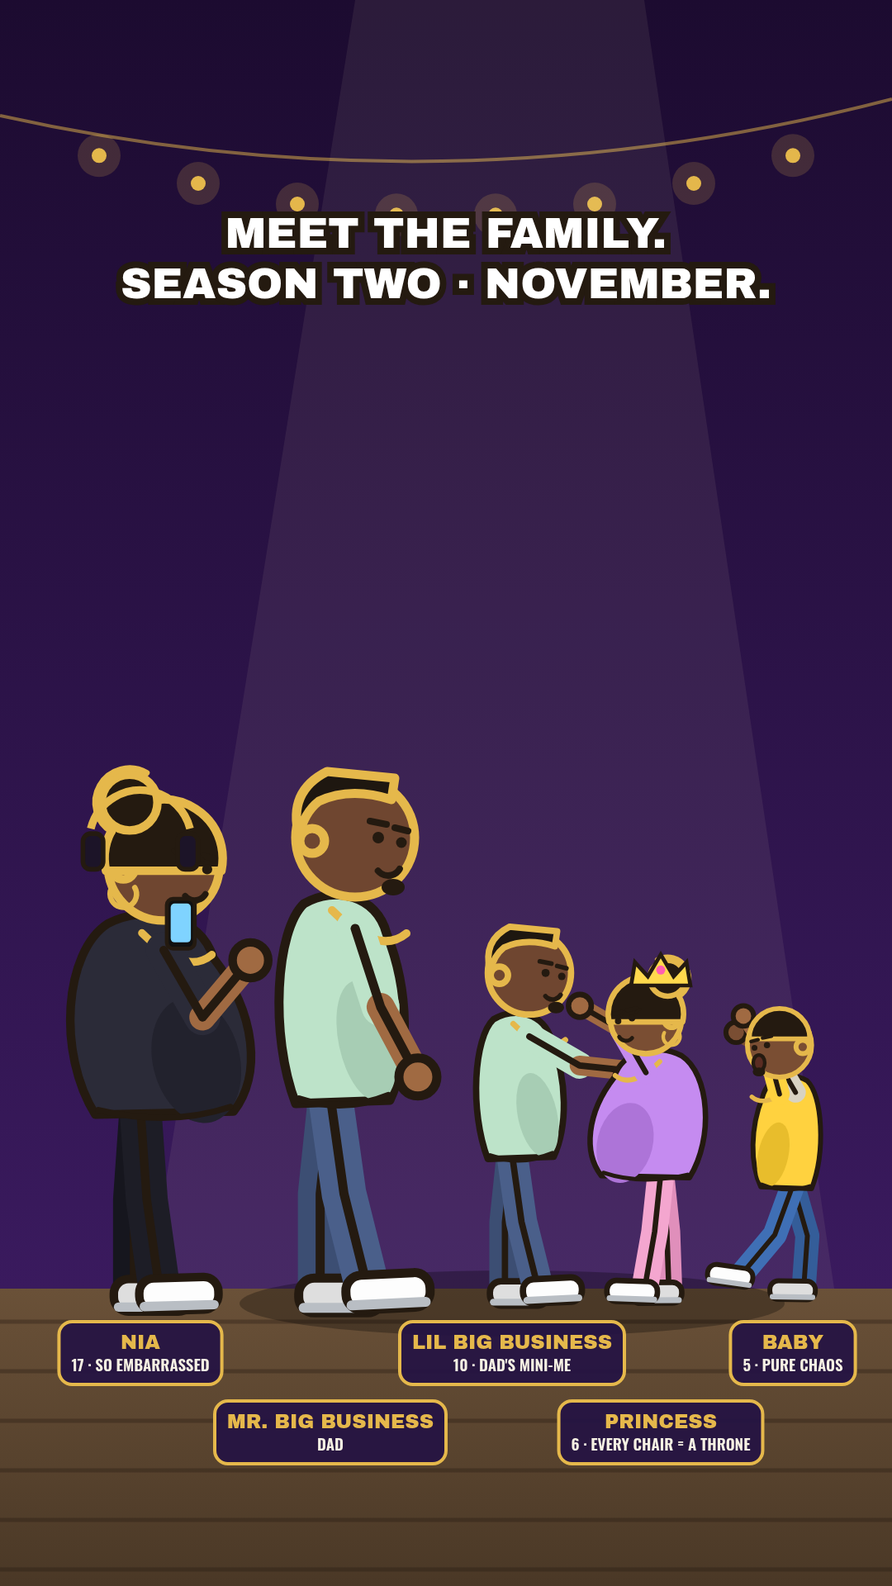
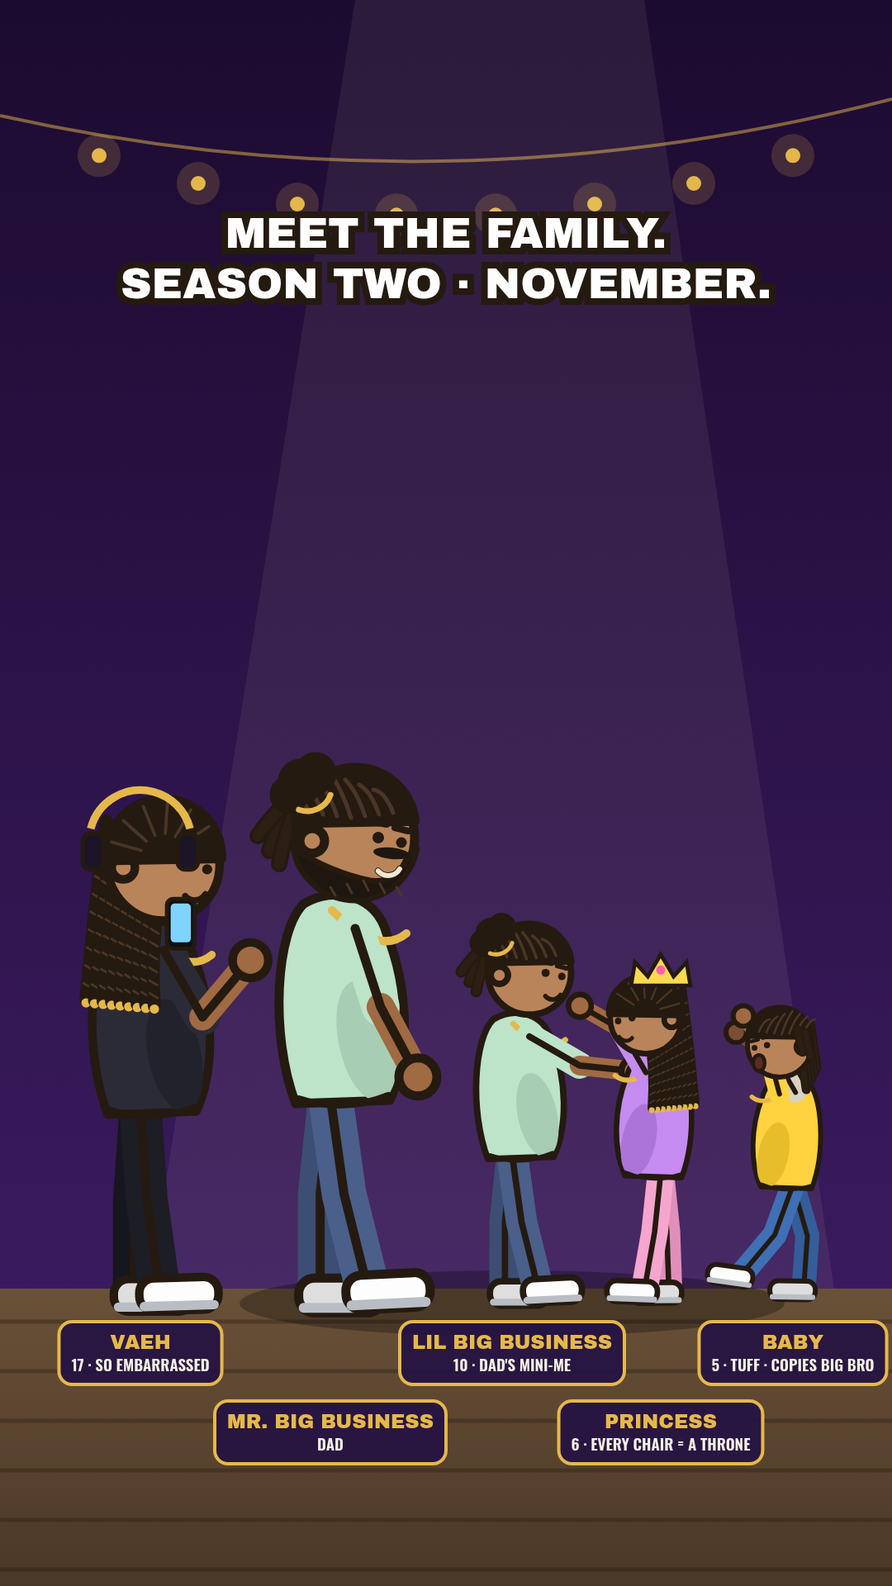
Season Two looks: Vaeh, light brown family, MBB locs bun + beard, Lil like Dad, braids for Princess and Vaeh, Baby the tuff one
Claude-Session: https://claude.ai/code/session_017gFjVqkwgLPg6xPremjBSu

diff --git a/big-business-rentals/reelsD.html b/big-business-rentals/reelsD.html
@@ -162,11 +162,64 @@ function drawMan(p){
   ctx.save();
   ctx.translate(30,-252); ctx.rotate(rad(p.headTilt||0));
   ctx.lineWidth=11;
+  // SEASON TWO hair that hangs BEHIND the head (drawn before the face)
+  if(S.hair==='braids'){
+    ctx.lineCap='round';
+    for(let i=0;i<9;i++){
+      const ax=-74+i*9, ay=-112+i*9, L=230-i*8, ex=ax-26+i*2, ey=ay+L;
+      ctx.strokeStyle=INK; ctx.lineWidth=17; ctx.beginPath(); ctx.moveTo(ax,ay); ctx.quadraticCurveTo(ax-16,(ay+ey)/2,ex,ey); ctx.stroke();
+      ctx.strokeStyle='#241a10'; ctx.lineWidth=11; ctx.beginPath(); ctx.moveTo(ax,ay); ctx.quadraticCurveTo(ax-16,(ay+ey)/2,ex,ey); ctx.stroke();
+      ctx.strokeStyle='#4a3626'; ctx.lineWidth=3;
+      for(let k=0.12;k<0.95;k+=0.1){ const bx=(1-k)*(1-k)*ax+2*(1-k)*k*(ax-16)+k*k*ex, by=(1-k)*(1-k)*ay+2*(1-k)*k*((ay+ey)/2)+k*k*ey;
+        ctx.beginPath(); ctx.moveTo(bx-5,by-3); ctx.lineTo(bx+5,by+3); ctx.stroke(); }
+      ctx.fillStyle=GOLD; ctx.beginPath(); ctx.arc(ex,ey+4,6,0,7); ctx.fill();
+    }
+    ctx.strokeStyle=INK; ctx.lineWidth=11;
+  } else if(S.hair==='locbun'){
+    ctx.lineCap='round';
+    [[-70,-112,-104,-40],[-60,-118,-92,-24],[-78,-104,-118,-58]].forEach(([x0,y0,x1,y1])=>{
+      ctx.strokeStyle=INK; ctx.lineWidth=20; ctx.beginPath(); ctx.moveTo(x0,y0); ctx.quadraticCurveTo(x0-24,(y0+y1)/2,x1,y1); ctx.stroke();
+      ctx.strokeStyle='#2b1f14'; ctx.lineWidth=13; ctx.beginPath(); ctx.moveTo(x0,y0); ctx.quadraticCurveTo(x0-24,(y0+y1)/2,x1,y1); ctx.stroke();
+    });
+    ctx.strokeStyle=INK; ctx.lineWidth=11;
+  } else if(S.hair==='locs'){
+    ctx.lineCap='round';
+    for(let i=0;i<5;i++){ const ax=-70+i*6, ay=-100+i*12, ex=ax-14, ey=ay+96;
+      ctx.strokeStyle=INK; ctx.lineWidth=20; ctx.beginPath(); ctx.moveTo(ax,ay); ctx.lineTo(ex,ey); ctx.stroke();
+      ctx.strokeStyle='#2b1f14'; ctx.lineWidth=13; ctx.beginPath(); ctx.moveTo(ax,ay); ctx.lineTo(ex,ey); ctx.stroke(); }
+    ctx.strokeStyle=INK; ctx.lineWidth=11;
+  }
   ctx.fillStyle=S.skin;
   ctx.beginPath(); ctx.arc(0,-56,72,0,7); ctx.fill(); ctx.stroke();
   ctx.beginPath(); ctx.arc(-52,-52,15,0,7); ctx.fill(); ctx.stroke(); // ear
   // backwards cap: dome on top + strap at back
-  if(S.fem){
+  if(S.hair==='braids'){
+    // long individual braids: the cap of parted hair (the braids themselves hang behind, drawn earlier)
+    ctx.fillStyle='#241a10';
+    ctx.beginPath(); ctx.arc(0,-66,75,rad(176),rad(362)); ctx.closePath(); ctx.fill(); ctx.stroke();
+    ctx.strokeStyle='#4a3626'; ctx.lineWidth=4;
+    for(let i=0;i<6;i++){ const a=rad(196+i*26); ctx.beginPath(); ctx.moveTo(Math.cos(a)*30,-66+Math.sin(a)*30); ctx.lineTo(Math.cos(a)*70,-66+Math.sin(a)*70); ctx.stroke(); }
+    ctx.strokeStyle=INK; ctx.lineWidth=11;
+  } else if(S.hair==='locbun'||S.hair==='locs'){
+    // locs: dark cap with rope texture; locbun adds the coiled bun at the back
+    ctx.fillStyle='#241a10';
+    ctx.beginPath(); ctx.arc(0,-68,73,rad(184),rad(354)); ctx.closePath(); ctx.fill(); ctx.stroke();
+    ctx.strokeStyle='#4a3626'; ctx.lineWidth=5;
+    for(let i=0;i<7;i++){ const x=-56+i*17; ctx.beginPath(); ctx.moveTo(x,-80-Math.abs(i-3)*2); ctx.quadraticCurveTo(x-10,-112,x-24,-132+Math.abs(i-3)*6); ctx.stroke(); }
+    ctx.strokeStyle=INK; ctx.lineWidth=11;
+    if(S.hair==='locbun'){
+      ctx.fillStyle='#241a10';
+      [[-66,-124,22],[-48,-134,20],[-80,-108,18]].forEach(([x,y,r])=>{ ctx.beginPath(); ctx.arc(x,y,r,0,7); ctx.fill(); ctx.stroke(); });
+      ctx.strokeStyle=GOLD; ctx.lineWidth=7; ctx.beginPath(); ctx.arc(-58,-118,30,rad(20),rad(110)); ctx.stroke();   // hair tie glint
+      ctx.strokeStyle=INK; ctx.lineWidth=11;
+    } else {
+      ctx.lineCap='round';
+      [[-40,-90,-52,-40],[-58,-84,-70,-30]].forEach(([x0,y0,x1,y1])=>{   // side locs in front of the ear
+        ctx.strokeStyle=INK; ctx.lineWidth=20; ctx.beginPath(); ctx.moveTo(x0,y0); ctx.lineTo(x1,y1); ctx.stroke();
+        ctx.strokeStyle='#2b1f14'; ctx.lineWidth=13; ctx.beginPath(); ctx.moveTo(x0,y0); ctx.lineTo(x1,y1); ctx.stroke(); });
+      ctx.strokeStyle=INK; ctx.lineWidth=11;
+    }
+  } else if(S.fem){
     ctx.fillStyle='#241a10';
     ctx.beginPath(); ctx.arc(0,-64,76,rad(168),rad(372)); ctx.closePath(); ctx.fill(); ctx.stroke();
     ctx.beginPath(); ctx.arc(-44,-136,36,0,7); ctx.fill(); ctx.stroke();   // bun
@@ -183,6 +236,14 @@ function drawMan(p){
   ctx.beginPath(); ctx.moveTo(-70,-84); ctx.quadraticCurveTo(-128,-76,-124,-56);
   ctx.quadraticCurveTo(-90,-56,-66,-62); ctx.closePath(); ctx.fill(); ctx.stroke();  // back brim
   ctx.fillStyle=GOLD; ctx.beginPath(); ctx.arc(6,-96,10,0,7); ctx.fill();  // cap button
+  } else if(S.manbun){
+    // SEASON TWO: hair pulled back into a ponytail bun (Mr. Big Business + Lil Big Business)
+    ctx.fillStyle='#1e1710';
+    ctx.beginPath(); ctx.arc(0,-68,72,rad(186),rad(352)); ctx.closePath(); ctx.fill(); ctx.stroke();
+    ctx.beginPath(); ctx.ellipse(-62,-120,30,26,rad(-20),0,7); ctx.fill(); ctx.stroke();   // the bun
+    ctx.strokeStyle='#3a2a1a'; ctx.lineWidth=8;
+    ctx.beginPath(); ctx.moveTo(-44,-104); ctx.lineTo(-36,-96); ctx.stroke();               // hair tie
+    ctx.strokeStyle=INK; ctx.lineWidth=11;
   } else if(S.fade){
     ctx.fillStyle='#1e1710';
     ctx.beginPath();
@@ -224,7 +285,20 @@ function drawMan(p){
   else if(p.mouth==='sad'){ctx.beginPath();ctx.arc(44,0,15,rad(200),rad(340));ctx.stroke();}
   else {ctx.beginPath();ctx.arc(40,-26,16,rad(30),rad(140));ctx.stroke();}
   // goatee (men) / lashes (women)
-  if(!S.fem && S.goatee!==false){
+  if(S.beard){
+    // SEASON TWO: full beard + mustache (Mr. Big Business only)
+    ctx.fillStyle='#1e1710'; ctx.lineWidth=7;
+    ctx.beginPath(); ctx.arc(0,-56,76,rad(10),rad(170));
+    ctx.quadraticCurveTo(-30,-14,18,-4); ctx.quadraticCurveTo(50,0,62,-30); ctx.closePath(); ctx.fill(); ctx.stroke();
+    ctx.beginPath(); ctx.ellipse(44,-37,22,7,rad(6),0,7); ctx.fill();                       // mustache
+    ctx.strokeStyle='#4a3626'; ctx.lineWidth=3;                                                // a little beard texture
+    for(let i=0;i<5;i++){ ctx.beginPath(); ctx.moveTo(-30+i*20,-4+Math.abs(i-2)*4); ctx.lineTo(-24+i*20,8+Math.abs(i-2)*3); ctx.stroke(); }
+    ctx.strokeStyle=INK;
+    ctx.lineWidth=11;
+    if(p.mouth==='o'){ctx.fillStyle='#5a2c22';ctx.beginPath();ctx.ellipse(46,-16,13,18,0,0,7);ctx.fill();ctx.stroke();}
+    else if(p.mouth==='sad'){ctx.strokeStyle='#f3e7d3';ctx.lineWidth=6;ctx.beginPath();ctx.arc(44,0,15,rad(200),rad(340));ctx.stroke();ctx.strokeStyle=INK;}
+    else {ctx.strokeStyle='#f3e7d3';ctx.lineWidth=6;ctx.beginPath();ctx.arc(40,-26,16,rad(30),rad(140));ctx.stroke();ctx.strokeStyle=INK;}
+  } else if(!S.fem && S.goatee!==false){
     ctx.fillStyle='#241a10';
     ctx.beginPath(); ctx.ellipse(46,4,14,10,0,0,7); ctx.fill();
   } else if(S.fem){
@@ -478,6 +552,11 @@ const CHX=620;
 const STYLE2={tee:'#bde3c9', teeShade:'#a7cdb4', capless:true, skin:'#6f4630', pant:'#4a5f8a', pantBack:'#3c4e73'};
 const STYLEW={fem:true, tee:'#e88bb3', teeShade:'#d377a0', skin:'#8a5a38', pant:'#5a3f7a', pantBack:'#4a3168'};
 const STYLER={tee:'#bde3c9', teeShade:'#a7cdb4', capless:true, fade:true, slim:true, skin:'#6f4630', pant:'#4a5f8a', pantBack:'#3c4e73'};
+// SEASON TWO LOOK (owner Oct 26): light brown skin for the whole family; Mr. Big Business wears a ponytail bun + full beard.
+// STYLER stays untouched so Season One episodes re-render exactly as aired.
+const SKIN2026='#b9845a';
+const STYLER2={tee:'#bde3c9', teeShade:'#a7cdb4', capless:true, hair:'locbun', beard:true, goatee:false, slim:true, skin:SKIN2026, pant:'#4a5f8a', pantBack:'#3c4e73'};
+
 const STYLET={tee:'#7db8e8', teeShade:'#699fd0', cap:'#e8762e', slim:true, goatee:false, skin:'#eec39f', pant:'#c9a46a', pantBack:'#b08c54'};
 const TTOP=FLOOR-262;
 
@@ -5024,11 +5103,11 @@ window.ENDTIMES[40]=23.5;
 
 // ================= SEASON TWO FAMILY (owner Oct 26: November = the holidays are for families) =================
 // Mr. Big Business's kids. Kid rigs = drawMan scaled from the feet, plus one accessory each.
-const STYLELB={tee:'#bde3c9', teeShade:'#a7cdb4', capless:true, fade:true, slim:true, skin:'#6f4630', pant:'#4a5f8a', pantBack:'#3c4e73'}; // LIL BIG BUSINESS: dad's mini-me
-const STYLEPB={fem:true, tee:'#c58bf0', teeShade:'#ad74d8', skin:'#7a4e33', pant:'#f4a6cf', pantBack:'#e08fbb'};                         // PRINCESS BIG BUSINESS
-const STYLEBB={tee:'#ffd23f', teeShade:'#e8bd2c', capless:true, slim:true, skin:'#7a4e33', pant:'#3f6fb5', pantBack:'#345d99'};          // BABY BIG BUSINESS
-const STYLENIA={fem:true, tee:'#2b2b38', teeShade:'#22222d', skin:'#6f4630', pant:'#1d1d26', pantBack:'#16161e'};                       // NIA, 17
-const KIDSCALE={lil:0.70, princess:0.60, baby:0.54, nia:0.94};
+const STYLELB={tee:'#bde3c9', teeShade:'#a7cdb4', capless:true, hair:'locbun', goatee:false, slim:true, skin:SKIN2026, pant:'#4a5f8a', pantBack:'#3c4e73'}; // LIL BIG BUSINESS: Dad's look (locs in a ponytail bun), no beard
+const STYLEPB={fem:true, slim:true, hair:'braids', tee:'#c58bf0', teeShade:'#ad74d8', skin:SKIN2026, pant:'#f4a6cf', pantBack:'#e08fbb'};                         // PRINCESS BIG BUSINESS (slim)
+const STYLEBB={tee:'#ffd23f', teeShade:'#e8bd2c', capless:true, hair:'locs', slim:true, goatee:false, skin:SKIN2026, pant:'#3f6fb5', pantBack:'#345d99'};       // BABY BIG BUSINESS (short locs)
+const STYLEVAEH={fem:true, slim:true, hair:'braids', tee:'#2b2b38', teeShade:'#22222d', skin:SKIN2026, pant:'#1d1d26', pantBack:'#16161e'};                     // VAEH, 17 (slim)
+const KIDSCALE={lil:0.70, princess:0.60, baby:0.54, vaeh:0.94};
 function kidHeadY(s){ return FLOOR-(FLOOR-(HIP_STAND-400))*s; }   // top of the head for a standing rig scaled s
 function drawKid(p, s){
   ctx.save(); ctx.translate(p.x,FLOOR); ctx.scale(s,s); ctx.translate(-p.x,-FLOOR);
@@ -5061,17 +5140,17 @@ function nameCardK(x,y,name,sub){
 function familySheet(t){
   drawRoom();
   const L=[ // x, style, scale, label, sub
-    [170, STYLENIA, KIDSCALE.nia, 'NIA', '17 · SO EMBARRASSED'],
-    [400, STYLER, 1.0, 'MR. BIG BUSINESS', 'DAD'],
+    [170, STYLEVAEH, KIDSCALE.vaeh, 'VAEH', '17 · SO EMBARRASSED'],
+    [400, STYLER2, 1.0, 'MR. BIG BUSINESS', 'DAD'],
     [620, STYLELB, KIDSCALE.lil, 'LIL BIG BUSINESS', '10 · DAD\'S MINI-ME'],
     [800, STYLEPB, KIDSCALE.princess, 'PRINCESS', '6 · EVERY CHAIR = A THRONE'],
-    [960, STYLEBB, KIDSCALE.baby, 'BABY', '5 · PURE CHAOS'],
+    [960, STYLEBB, KIDSCALE.baby, 'BABY', '5 · TUFF · COPIES BIG BRO'],
   ];
-  // NIA: arms folded on her phone, flat face
-  drawKid({x:170, face:1, legs:[{hip:4,knee:4},{hip:-4,knee:4}], arm:{sh:30,el:110}, mouth:'flat', style:STYLENIA}, KIDSCALE.nia);
-  headphonesK(170, kidHeadY(KIDSCALE.nia), KIDSCALE.nia, 1);
-  phoneK(170+52*KIDSCALE.nia, FLOOR-470*KIDSCALE.nia, KIDSCALE.nia, true);
-  drawMan({x:400, y:HIP_STAND, face:1, legs:[{hip:8,knee:6},{hip:-6,knee:6}], arm:{sh:18,el:10}, mouth:'smile', style:STYLER});
+  // VAEH: arms folded on her phone, flat face
+  drawKid({x:170, face:1, legs:[{hip:4,knee:4},{hip:-4,knee:4}], arm:{sh:30,el:110}, mouth:'flat', style:STYLEVAEH}, KIDSCALE.vaeh);
+  headphonesK(170, kidHeadY(KIDSCALE.vaeh), KIDSCALE.vaeh, 1);
+  phoneK(170+52*KIDSCALE.vaeh, FLOOR-470*KIDSCALE.vaeh, KIDSCALE.vaeh, true);
+  drawMan({x:400, y:HIP_STAND, face:1, legs:[{hip:8,knee:6},{hip:-6,knee:6}], arm:{sh:18,el:10}, mouth:'smile', style:STYLER2});
   drawKid({x:620, face:1, legs:[{hip:8,knee:6},{hip:-6,knee:6}], arm:{sh:60,el:24}, mouth:'smile', style:STYLELB}, KIDSCALE.lil);
   drawKid({x:800, face:-1, legs:[{hip:6,knee:4},{hip:-6,knee:4}], arm:{sh:150,el:-30}, mouth:'smile', style:STYLEPB}, KIDSCALE.princess);
   tiaraK(800, kidHeadY(KIDSCALE.princess)+8, KIDSCALE.princess*1.3);

diff --git a/big-business-rentals/halloween/reelH.html b/big-business-rentals/halloween/reelH.html
@@ -163,11 +163,64 @@ function drawMan(p){
   if(p.noHead){ ctx.restore(); ctx.restore(); ctx.restore(); return; }
   ctx.translate(30,-252); ctx.rotate(rad(p.headTilt||0));
   ctx.lineWidth=11;
+  // SEASON TWO hair that hangs BEHIND the head (drawn before the face)
+  if(S.hair==='braids'){
+    ctx.lineCap='round';
+    for(let i=0;i<9;i++){
+      const ax=-74+i*9, ay=-112+i*9, L=230-i*8, ex=ax-26+i*2, ey=ay+L;
+      ctx.strokeStyle=INK; ctx.lineWidth=17; ctx.beginPath(); ctx.moveTo(ax,ay); ctx.quadraticCurveTo(ax-16,(ay+ey)/2,ex,ey); ctx.stroke();
+      ctx.strokeStyle='#241a10'; ctx.lineWidth=11; ctx.beginPath(); ctx.moveTo(ax,ay); ctx.quadraticCurveTo(ax-16,(ay+ey)/2,ex,ey); ctx.stroke();
+      ctx.strokeStyle='#4a3626'; ctx.lineWidth=3;
+      for(let k=0.12;k<0.95;k+=0.1){ const bx=(1-k)*(1-k)*ax+2*(1-k)*k*(ax-16)+k*k*ex, by=(1-k)*(1-k)*ay+2*(1-k)*k*((ay+ey)/2)+k*k*ey;
+        ctx.beginPath(); ctx.moveTo(bx-5,by-3); ctx.lineTo(bx+5,by+3); ctx.stroke(); }
+      ctx.fillStyle=GOLD; ctx.beginPath(); ctx.arc(ex,ey+4,6,0,7); ctx.fill();
+    }
+    ctx.strokeStyle=INK; ctx.lineWidth=11;
+  } else if(S.hair==='locbun'){
+    ctx.lineCap='round';
+    [[-70,-112,-104,-40],[-60,-118,-92,-24],[-78,-104,-118,-58]].forEach(([x0,y0,x1,y1])=>{
+      ctx.strokeStyle=INK; ctx.lineWidth=20; ctx.beginPath(); ctx.moveTo(x0,y0); ctx.quadraticCurveTo(x0-24,(y0+y1)/2,x1,y1); ctx.stroke();
+      ctx.strokeStyle='#2b1f14'; ctx.lineWidth=13; ctx.beginPath(); ctx.moveTo(x0,y0); ctx.quadraticCurveTo(x0-24,(y0+y1)/2,x1,y1); ctx.stroke();
+    });
+    ctx.strokeStyle=INK; ctx.lineWidth=11;
+  } else if(S.hair==='locs'){
+    ctx.lineCap='round';
+    for(let i=0;i<5;i++){ const ax=-70+i*6, ay=-100+i*12, ex=ax-14, ey=ay+96;
+      ctx.strokeStyle=INK; ctx.lineWidth=20; ctx.beginPath(); ctx.moveTo(ax,ay); ctx.lineTo(ex,ey); ctx.stroke();
+      ctx.strokeStyle='#2b1f14'; ctx.lineWidth=13; ctx.beginPath(); ctx.moveTo(ax,ay); ctx.lineTo(ex,ey); ctx.stroke(); }
+    ctx.strokeStyle=INK; ctx.lineWidth=11;
+  }
   ctx.fillStyle=S.skin;
   ctx.beginPath(); ctx.arc(0,-56,72,0,7); ctx.fill(); ctx.stroke();
   ctx.beginPath(); ctx.arc(-52,-52,15,0,7); ctx.fill(); ctx.stroke(); // ear
   // backwards cap: dome on top + strap at back
-  if(S.fem){
+  if(S.hair==='braids'){
+    // long individual braids: the cap of parted hair (the braids themselves hang behind, drawn earlier)
+    ctx.fillStyle='#241a10';
+    ctx.beginPath(); ctx.arc(0,-66,75,rad(176),rad(362)); ctx.closePath(); ctx.fill(); ctx.stroke();
+    ctx.strokeStyle='#4a3626'; ctx.lineWidth=4;
+    for(let i=0;i<6;i++){ const a=rad(196+i*26); ctx.beginPath(); ctx.moveTo(Math.cos(a)*30,-66+Math.sin(a)*30); ctx.lineTo(Math.cos(a)*70,-66+Math.sin(a)*70); ctx.stroke(); }
+    ctx.strokeStyle=INK; ctx.lineWidth=11;
+  } else if(S.hair==='locbun'||S.hair==='locs'){
+    // locs: dark cap with rope texture; locbun adds the coiled bun at the back
+    ctx.fillStyle='#241a10';
+    ctx.beginPath(); ctx.arc(0,-68,73,rad(184),rad(354)); ctx.closePath(); ctx.fill(); ctx.stroke();
+    ctx.strokeStyle='#4a3626'; ctx.lineWidth=5;
+    for(let i=0;i<7;i++){ const x=-56+i*17; ctx.beginPath(); ctx.moveTo(x,-80-Math.abs(i-3)*2); ctx.quadraticCurveTo(x-10,-112,x-24,-132+Math.abs(i-3)*6); ctx.stroke(); }
+    ctx.strokeStyle=INK; ctx.lineWidth=11;
+    if(S.hair==='locbun'){
+      ctx.fillStyle='#241a10';
+      [[-66,-124,22],[-48,-134,20],[-80,-108,18]].forEach(([x,y,r])=>{ ctx.beginPath(); ctx.arc(x,y,r,0,7); ctx.fill(); ctx.stroke(); });
+      ctx.strokeStyle=GOLD; ctx.lineWidth=7; ctx.beginPath(); ctx.arc(-58,-118,30,rad(20),rad(110)); ctx.stroke();   // hair tie glint
+      ctx.strokeStyle=INK; ctx.lineWidth=11;
+    } else {
+      ctx.lineCap='round';
+      [[-40,-90,-52,-40],[-58,-84,-70,-30]].forEach(([x0,y0,x1,y1])=>{   // side locs in front of the ear
+        ctx.strokeStyle=INK; ctx.lineWidth=20; ctx.beginPath(); ctx.moveTo(x0,y0); ctx.lineTo(x1,y1); ctx.stroke();
+        ctx.strokeStyle='#2b1f14'; ctx.lineWidth=13; ctx.beginPath(); ctx.moveTo(x0,y0); ctx.lineTo(x1,y1); ctx.stroke(); });
+      ctx.strokeStyle=INK; ctx.lineWidth=11;
+    }
+  } else if(S.fem){
     ctx.fillStyle='#241a10';
     ctx.beginPath(); ctx.arc(0,-64,76,rad(168),rad(372)); ctx.closePath(); ctx.fill(); ctx.stroke();
     ctx.beginPath(); ctx.arc(-44,-136,36,0,7); ctx.fill(); ctx.stroke();   // bun
@@ -184,6 +237,14 @@ function drawMan(p){
   ctx.beginPath(); ctx.moveTo(-70,-84); ctx.quadraticCurveTo(-128,-76,-124,-56);
   ctx.quadraticCurveTo(-90,-56,-66,-62); ctx.closePath(); ctx.fill(); ctx.stroke();  // back brim
   ctx.fillStyle=GOLD; ctx.beginPath(); ctx.arc(6,-96,10,0,7); ctx.fill();  // cap button
+  } else if(S.manbun){
+    // SEASON TWO: hair pulled back into a ponytail bun (Mr. Big Business + Lil Big Business)
+    ctx.fillStyle='#1e1710';
+    ctx.beginPath(); ctx.arc(0,-68,72,rad(186),rad(352)); ctx.closePath(); ctx.fill(); ctx.stroke();
+    ctx.beginPath(); ctx.ellipse(-62,-120,30,26,rad(-20),0,7); ctx.fill(); ctx.stroke();   // the bun
+    ctx.strokeStyle='#3a2a1a'; ctx.lineWidth=8;
+    ctx.beginPath(); ctx.moveTo(-44,-104); ctx.lineTo(-36,-96); ctx.stroke();               // hair tie
+    ctx.strokeStyle=INK; ctx.lineWidth=11;
   } else if(S.fade){
     ctx.fillStyle='#1e1710';
     ctx.beginPath();
@@ -225,7 +286,20 @@ function drawMan(p){
   else if(p.mouth==='sad'){ctx.beginPath();ctx.arc(44,0,15,rad(200),rad(340));ctx.stroke();}
   else {ctx.beginPath();ctx.arc(40,-26,16,rad(30),rad(140));ctx.stroke();}
   // goatee (men) / lashes (women)
-  if(!S.fem && S.goatee!==false){
+  if(S.beard){
+    // SEASON TWO: full beard + mustache (Mr. Big Business only)
+    ctx.fillStyle='#1e1710'; ctx.lineWidth=7;
+    ctx.beginPath(); ctx.arc(0,-56,76,rad(10),rad(170));
+    ctx.quadraticCurveTo(-30,-14,18,-4); ctx.quadraticCurveTo(50,0,62,-30); ctx.closePath(); ctx.fill(); ctx.stroke();
+    ctx.beginPath(); ctx.ellipse(44,-37,22,7,rad(6),0,7); ctx.fill();                       // mustache
+    ctx.strokeStyle='#4a3626'; ctx.lineWidth=3;                                                // a little beard texture
+    for(let i=0;i<5;i++){ ctx.beginPath(); ctx.moveTo(-30+i*20,-4+Math.abs(i-2)*4); ctx.lineTo(-24+i*20,8+Math.abs(i-2)*3); ctx.stroke(); }
+    ctx.strokeStyle=INK;
+    ctx.lineWidth=11;
+    if(p.mouth==='o'){ctx.fillStyle='#5a2c22';ctx.beginPath();ctx.ellipse(46,-16,13,18,0,0,7);ctx.fill();ctx.stroke();}
+    else if(p.mouth==='sad'){ctx.strokeStyle='#f3e7d3';ctx.lineWidth=6;ctx.beginPath();ctx.arc(44,0,15,rad(200),rad(340));ctx.stroke();ctx.strokeStyle=INK;}
+    else {ctx.strokeStyle='#f3e7d3';ctx.lineWidth=6;ctx.beginPath();ctx.arc(40,-26,16,rad(30),rad(140));ctx.stroke();ctx.strokeStyle=INK;}
+  } else if(!S.fem && S.goatee!==false){
     ctx.fillStyle='#241a10';
     ctx.beginPath(); ctx.ellipse(46,4,14,10,0,0,7); ctx.fill();
   } else if(S.fem){
@@ -479,6 +553,11 @@ const CHX=620;
 const STYLE2={tee:'#bde3c9', teeShade:'#a7cdb4', capless:true, skin:'#6f4630', pant:'#4a5f8a', pantBack:'#3c4e73'};
 const STYLEW={fem:true, tee:'#e88bb3', teeShade:'#d377a0', skin:'#8a5a38', pant:'#5a3f7a', pantBack:'#4a3168'};
 const STYLER={tee:'#bde3c9', teeShade:'#a7cdb4', capless:true, fade:true, slim:true, skin:'#6f4630', pant:'#4a5f8a', pantBack:'#3c4e73'};
+// SEASON TWO LOOK (owner Oct 26): light brown skin for the whole family; Mr. Big Business wears a ponytail bun + full beard.
+// STYLER stays untouched so Season One episodes re-render exactly as aired.
+const SKIN2026='#b9845a';
+const STYLER2={tee:'#bde3c9', teeShade:'#a7cdb4', capless:true, hair:'locbun', beard:true, goatee:false, slim:true, skin:SKIN2026, pant:'#4a5f8a', pantBack:'#3c4e73'};
+
 const STYLET={tee:'#7db8e8', teeShade:'#699fd0', cap:'#e8762e', slim:true, goatee:false, skin:'#eec39f', pant:'#c9a46a', pantBack:'#b08c54'};
 const TTOP=FLOOR-262;
 

diff --git a/big-business-rentals/CAST.md b/big-business-rentals/CAST.md
@@ -25,23 +25,30 @@ Season One = animated, ~20s episodes, SFX only, NO voices (ElevenLabs VO tested 
 - THE CAT · black cat from the Halloween lane. Rashad's silent nemesis. Shows up at the worst moment, always gets the best seat.
 
 ## SEASON TWO FAMILY (owner Oct 26: "for november since the holiday seasons are for families we are going
-## to introduce Mr. Big Business's kids"; owner: Lil Big Business and Baby Big Business are boys)
+## to introduce Mr. Big Business's kids")
 Rigs live in reelsD.html (drawKid = drawMan scaled from the feet; KIDSCALE; accessories tiaraK, headphonesK,
 phoneK; name cards nameCardK; reference still REELS[90] familySheet -> examples/EX_Family_Sheet.png).
+SEASON TWO LOOK (owner Oct 26): the whole family has a light brown complexion (SKIN2026 #b9845a), Mr. Big Business
+included. Hair options added to drawMan in reelsD.html AND halloween/reelH.html: hair:'locbun' (locs pulled back into a
+ponytail bun, a few locs hanging), hair:'locs' (short hanging locs), hair:'braids' (long individual braids, gold bead
+tips), beard:true (full beard + mustache, light smile line drawn on top).
+- MR. BIG BUSINESS, Season Two look = STYLER2: locs in a ponytail bun + full beard, light brown skin, same green tee.
+  STYLER (Season One look: fade, darker skin) stays untouched so Season One episodes re-render exactly as aired.
+  From November every new episode and trend remix uses STYLER2.
 Humor always comes from the situation (family party chaos, setups, seating), never from identity or stereotype.
-- NIA BIG BUSINESS · 17, the oldest, a girl · rig STYLENIA (black hoodie and pants), headphones, phone always lit. Name chosen Oct 26
-  (owner asked us to pick it). Always annoyed at everything.
+- VAEH BIG BUSINESS · 17, the oldest, a girl (name chosen by the owner Oct 26) · rig STYLEVAEH: slim, long individual
+  braids, black hoodie and pants, gold-band headphones, phone always lit. Always annoyed at everything.
   RUNNING GAG: every appearance she sighs "...this is SO embarrassing." (same wording, lowercase energy),
   eyes on her phone. Secret twist used sparingly: she is quietly the most competent person in the room
   (sets a whole table in the background while everyone argues, never looks up).
-- LIL BIG BUSINESS · 10, a boy · rig STYLELB = Dad's exact look in kid size (fade, green tee, navy pants).
-  Dad's mini-me: copies every move, carries one chair "like Dad," and sometimes wins where Dad loses.
+- LIL BIG BUSINESS · 10, a boy · rig STYLELB: looks just like Dad (locs in a ponytail bun, green tee, navy pants) but no
+  beard. Dad's mini-me: copies every move, carries one chair "like Dad," and sometimes wins where Dad loses.
   Gets his own record on the end card when he is in the episode (Lil Big Business W-L).
-- PRINCESS BIG BUSINESS · 6, a girl · rig STYLEPB (lavender top, pink pants) + gold tiara.
+- PRINCESS BIG BUSINESS · 6, a girl · rig STYLEPB: slim, long individual braids, lavender top, pink pants, gold tiara.
   Every party is her royal ball and the best chair is her throne. Bosses the cat around; the cat allows it.
-- BABY BIG BUSINESS · 5, a boy · rig STYLEBB (yellow tee, blue pants), the youngest.
-  Pure chaos and pure joy: hides under tablecloths, jumps on everything, best friends with the cat.
-  Hide-and-seek gag: "where is Baby Big Business?" sits alongside the hidden pumpkin hunt.
+- BABY BIG BUSINESS · 5, a boy, the youngest · rig STYLEBB: short locs, yellow tee, blue pants.
+  THE TUFF ONE (owner Oct 26): does everything his big brother does. Lil Big Business carries a chair, Baby carries a
+  chair. Lil jumps, Baby jumps higher. Never cries, never backs down, always one step behind his brother on purpose.
 OPEN QUESTION FOR THE OWNER: is Mrs. Never Wrong the kids' mom? Do not write her as their mother until he says so.
 
 ## Voices (ElevenLabs, verified working Oct 5)

diff --git a/CLAUDE.md b/CLAUDE.md
@@ -279,9 +279,11 @@ season arc "Road to the Halloween Party" (full-cast finale Oct 31); hidden pumpk
 end-card question + credit fan ideas by @name; W-L tracker for Mr. Big Business (he rarely wins).
 Season One voices: NONE, SFX only (ElevenLabs VO tested Oct 5, owner cancelled it; keep IDs in CAST.md on file).
 Season Two: owner's real voice recordings begin.
-SEASON TWO FAMILY (owner Oct 26, November = family season): Mr. Big Business's kids join: NIA (17, girl, always
-annoyed, "...this is SO embarrassing."), LIL BIG BUSINESS (10, boy, Dad's mini-me), PRINCESS BIG BUSINESS (6, girl,
-tiara, every chair is a throne), BABY BIG BUSINESS (5, boy, pure chaos). Bible + rigs: CAST.md SEASON TWO FAMILY.
+SEASON TWO FAMILY (owner Oct 26, November = family season): Mr. Big Business's kids join: VAEH (17, girl, slim, long
+braids, always annoyed, "...this is SO embarrassing."), LIL BIG BUSINESS (10, boy, looks just like Dad without the beard),
+PRINCESS BIG BUSINESS (6, girl, slim, long braids, tiara), BABY BIG BUSINESS (5, boy, short locs, the tuff one who does
+everything his big brother does). Whole family light brown skin; Mr. Big Business's Season Two look = locs in a ponytail
+bun + full beard (rig STYLER2; STYLER kept for Season One re-renders). Bible + rigs: CAST.md SEASON TWO FAMILY.
 
 ## DAILY CAROUSEL SYSTEM (owner directive Oct 5, REPLACES single static cards for tip, business,
 ## referral and countdown posts; videos and pre-built sets keep their formats)
